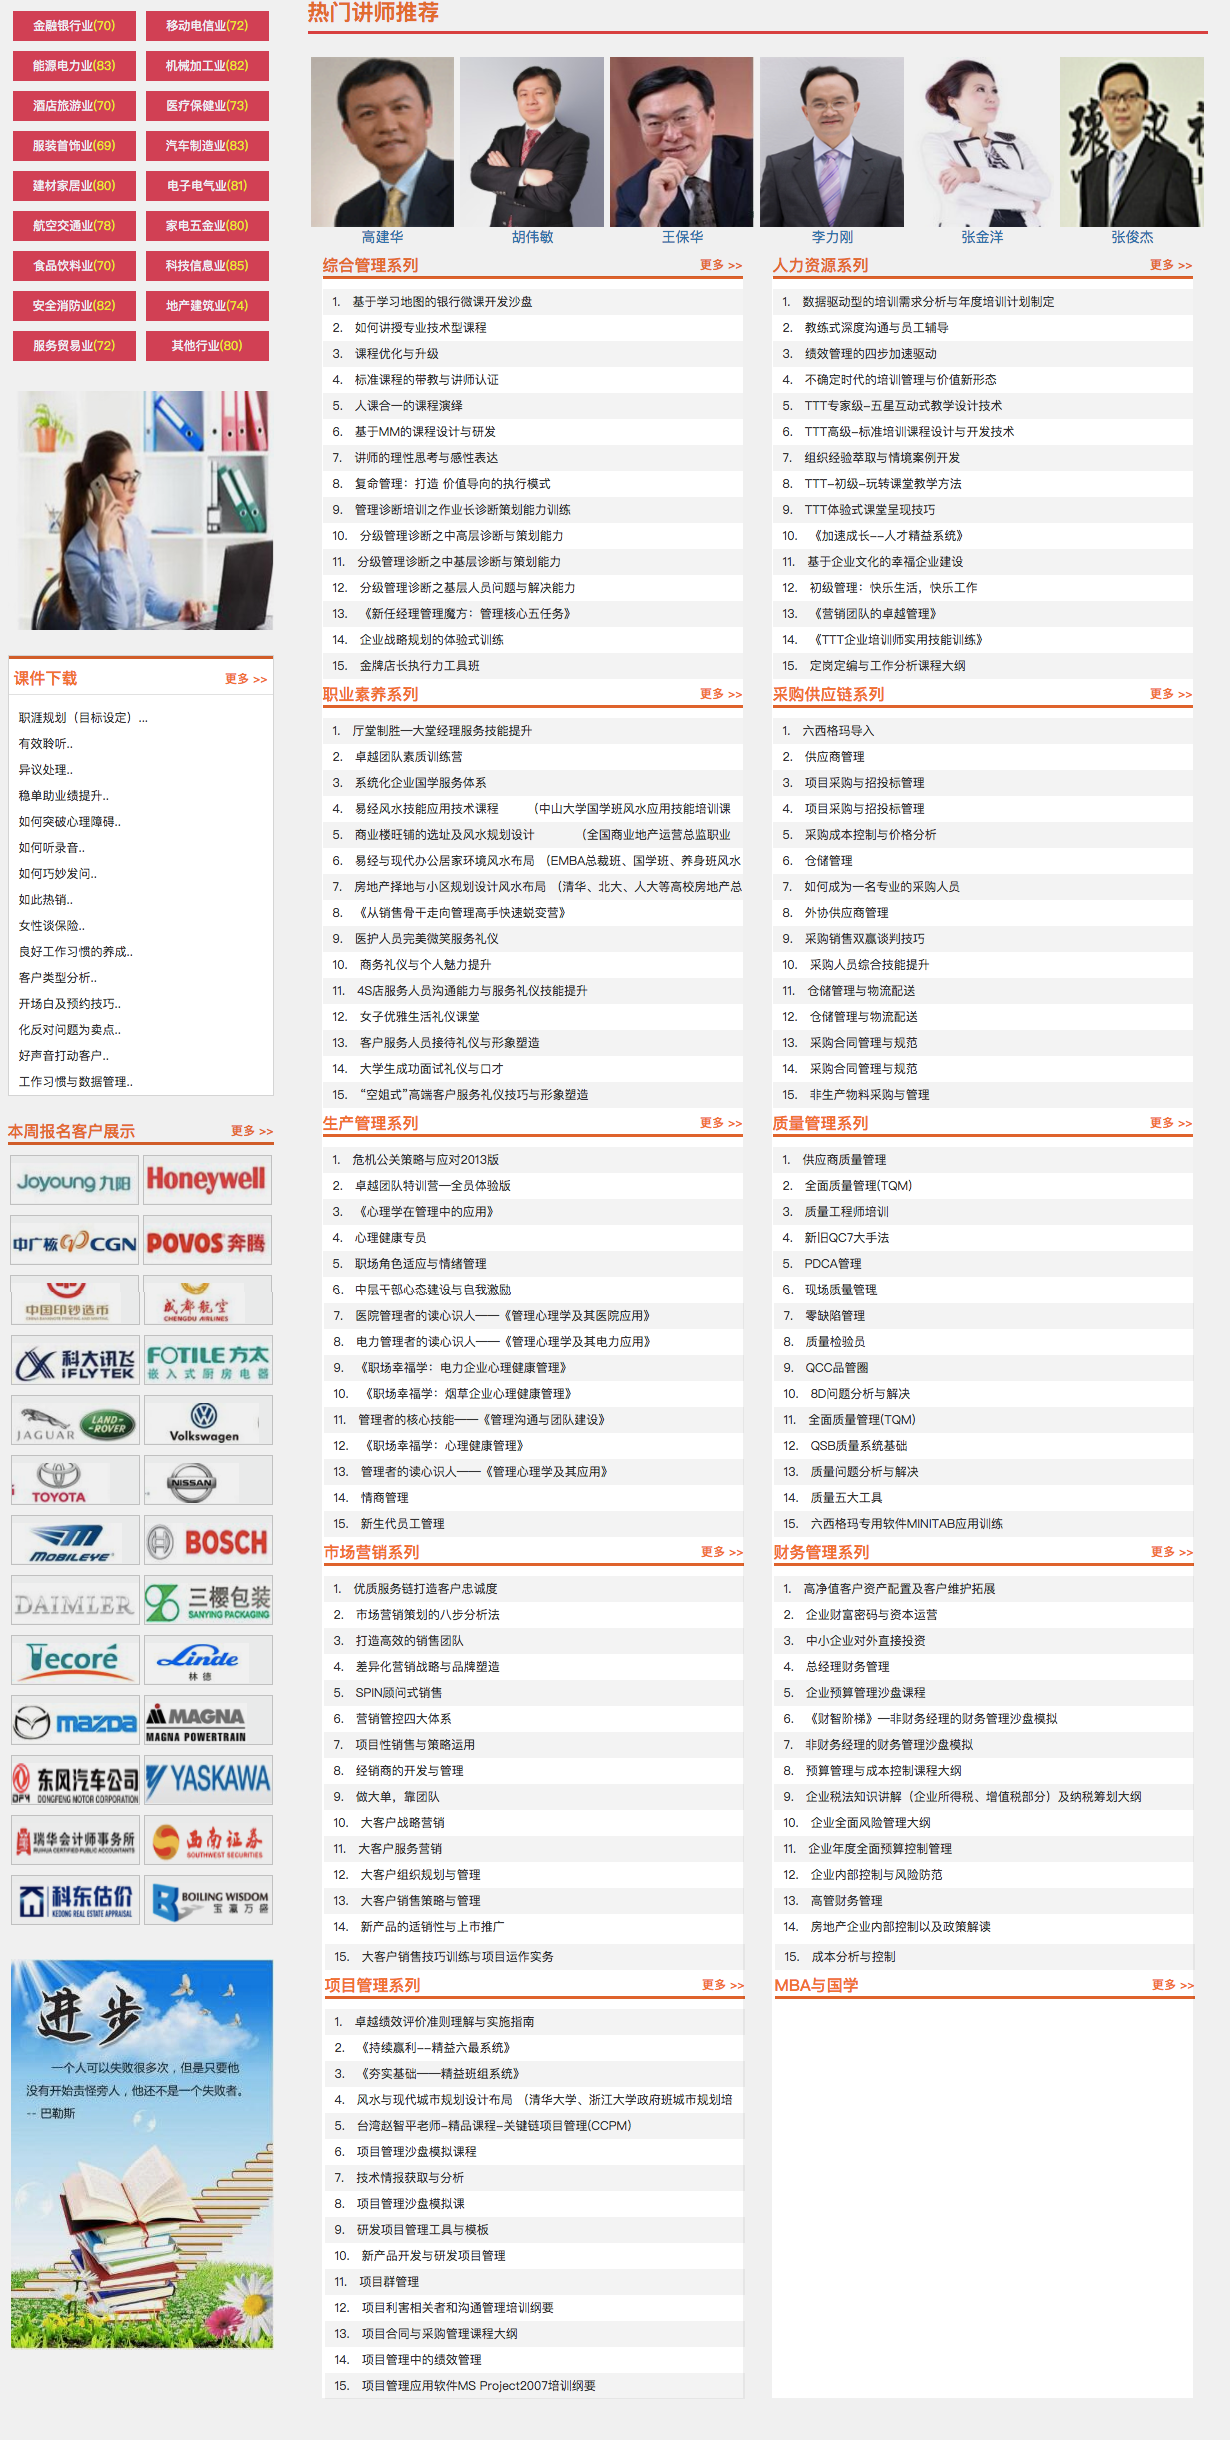
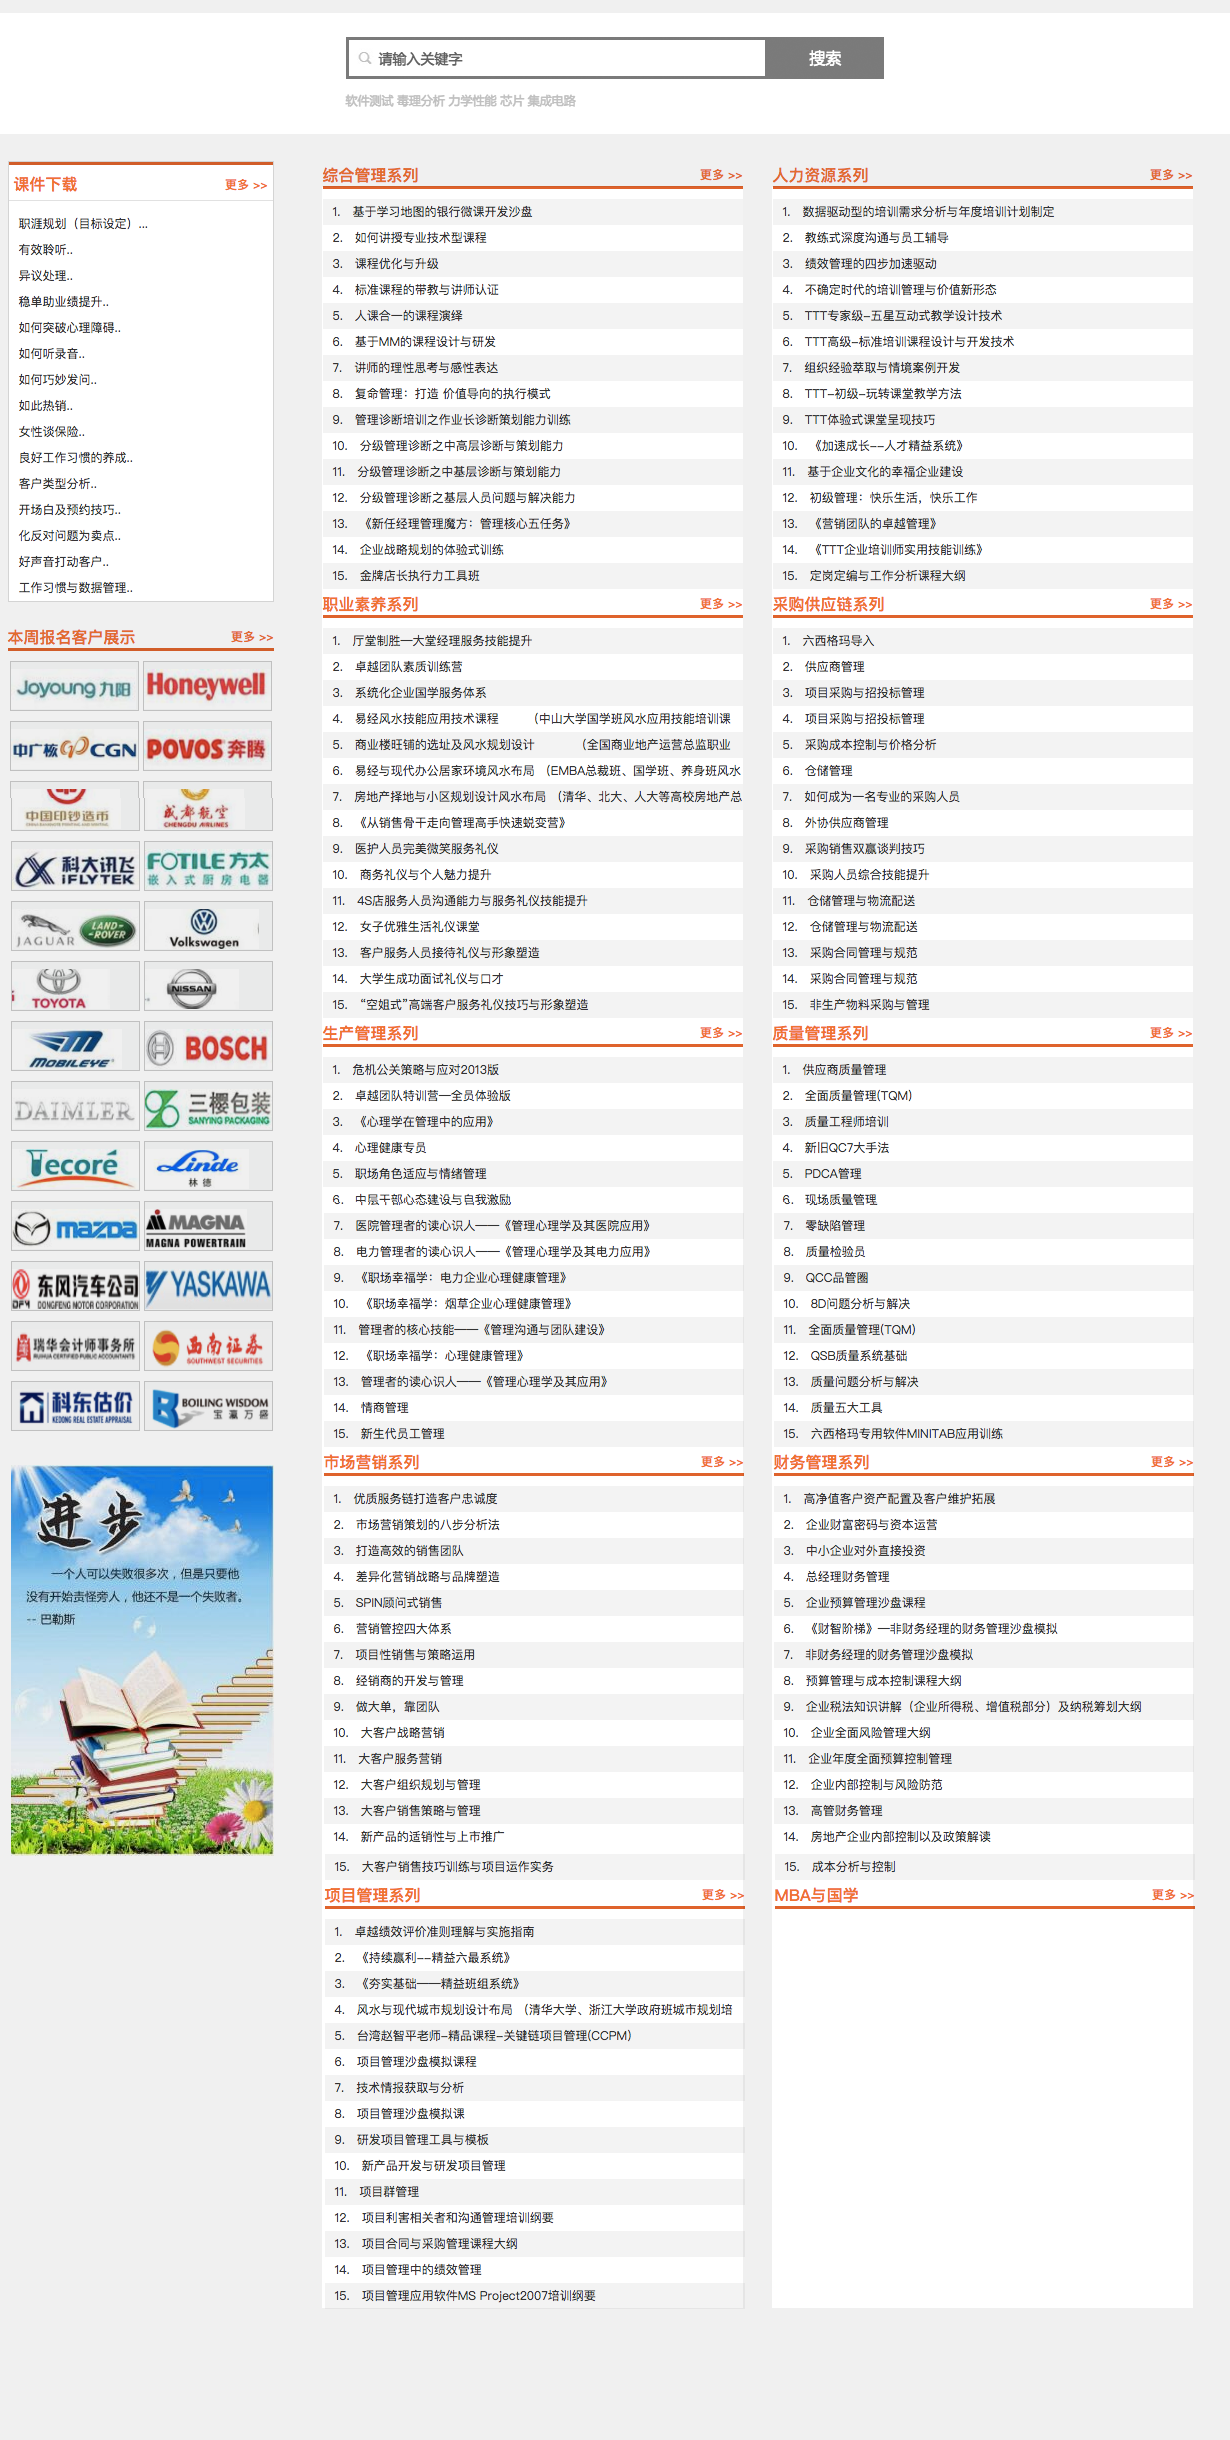
page replace

diff --git a/top.php b/top.php
@@ -92,7 +92,7 @@ include 'admin/config/config.php';
                 </div>
                 <div id="menu_title" class="col-6">
                     <a href="index.php">网站首页</a>
-                    <a href="search.php">服务搜索</a>       
+                    <a href="service.php">服务搜索</a>       
                     <a href="my_item_push.php">发布项目</a>       
                     <a href="my_consult.php">专业咨询</a>       
                     <a href="literature.php">文献支持</a>

diff --git a/service.php b/service.php
@@ -1,0 +1,14 @@
+<?php include 'top.php';
+include 'admin/function/function.php';?>
+<div id="list">
+    <div id="list_banner" style="background-image:url(img/tmp_banner.jpg)"></div>
+</div>
+
+<div style="text-align: center" style="padding-top:25px;">
+    <div>&nbsp;</div>
+    <a href="c_my_train.php"><img src="img/service.png" border="0"></a>
+</div>
+<?php include 'end.php';?>
+<script src="../config/rem.js"></script>
+</body>
+</html>
